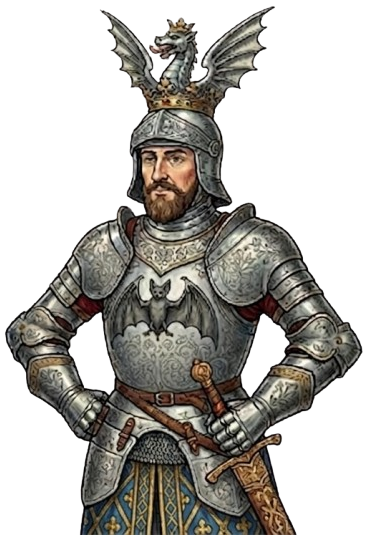
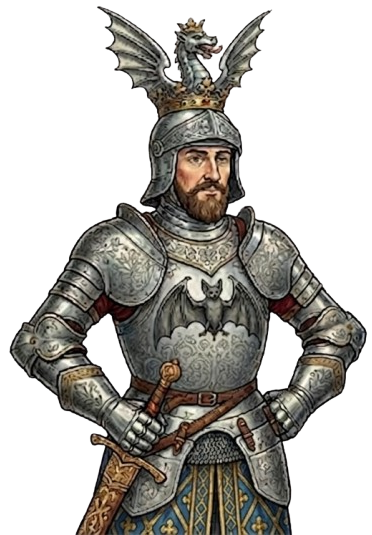
feat(video-intro): rediseño visual P2-P20 + fix video autoplay + caballeros fullbody
- P2: mapaPerdido más alto (min(40vw,25vh)); GPS/internet +20% (min(45.6vw,28.8vh))
- P5: botones +5% (min(67px,15.2vw))
- P6: banda verde doble altura (padding 2.5vw, botón min(14vw,8vh))
- P7: banda verde con botón b2 encima del mapa vintage
- P9/P10: cabecera verde (consistencia); P10 fix autoplay: video.play() explícito
- P10: waitForVideoEnd sin handler error (evita avance automático)
- P11: bottom caballero respeta --band-h (calc(min(92px,25vw) + var(--band-h,0px)))
- P12/P13: banda verde con botón reto; puzzle 30% más grande (min(338px,80.6vw))
- P15: imagen GPS más grande (min(240px,58vw)); overlay +2s (3000→5000ms)
- P16: walk más lento (4000→8000ms); añade showBubble(15) + waitForNextBtn
- P17: GPS overlay +2s; walk más lento (6000→10000ms)
- P19: añade K.cerca (caballero_vista_cerca) a la izquierda
- P20: modal sube (padding-top:15vh)
- caballeros fullbody (jaime_saluda, maria_saluda, pareja_camara): clase
  knight-fullbody (clamp(250px,41vw,400px)) detectada automáticamente en show()
- CACHE_VERSION → v-video-intro-jul09a

diff --git a/video-intro.html b/video-intro.html
@@ -50,6 +50,7 @@ html,body{overflow:hidden;width:100%;height:100%;background:#fff;font-family:-ap
 }
 #knight2.show{transform:translateY(0%)}
 #knight2.bounce{animation:bounceK .45s ease-in-out infinite alternate}
+.knight-fullbody{height:clamp(250px,41vw,400px)!important}
 
 /* ── helper: knight principal a la DERECHA ── */
 .knight-right #knight{left:auto;right:0.8vw;transform:translateY(100%)}
@@ -108,7 +109,7 @@ html,body{overflow:hidden;width:100%;height:100%;background:#fff;font-family:-ap
 .btn-grid{position:absolute;inset:0;display:flex;flex-direction:column;align-items:center;justify-content:center;gap:12px;padding:12px;background:#f8f9fa}
 .btn-group{display:flex;align-items:center;gap:8px;flex-wrap:wrap;justify-content:center}
 .bg-label{font-size:9px;color:#888;text-transform:uppercase;letter-spacing:.5px;width:100%;text-align:center;margin-bottom:2px}
-.btn-main-ico{width:min(64px,14.5vw);height:min(64px,14.5vw);border-radius:50%;background:linear-gradient(180deg,#1e7e34,#0d3a16);overflow:hidden;box-shadow:inset 0 0 10px rgba(255,255,255,.15),0 3px 8px rgba(0,0,0,.3)}
+.btn-main-ico{width:min(67px,15.2vw);height:min(67px,15.2vw);border-radius:50%;background:linear-gradient(180deg,#1e7e34,#0d3a16);overflow:hidden;box-shadow:inset 0 0 10px rgba(255,255,255,.15),0 3px 8px rgba(0,0,0,.3)}
 .btn-main-ico img{width:103%;height:103%;margin:-1.5%;object-fit:cover;border-radius:50%}
 .btn-sub-ico{width:min(48px,10.5vw);height:min(48px,10.5vw);border-radius:50%;background:linear-gradient(180deg,#1e7e34,#0d3a16);overflow:hidden;box-shadow:inset 0 0 6px rgba(255,255,255,.1)}
 .btn-sub-ico img{width:103%;height:103%;margin:-1.5%;object-fit:cover;border-radius:50%}
@@ -262,7 +263,7 @@ html,body{overflow:hidden;width:100%;height:100%;background:#fff;font-family:-ap
 /* PUZZLE BOARD */
 .puzzle-board{
   display:grid;grid-template-columns:1fr 1fr;grid-template-rows:1fr 1fr;
-  gap:4px;width:min(260px,62vw);height:min(196px,46.5vw);
+  gap:4px;width:min(338px,80.6vw);height:min(255px,60.5vw);
   align-self:center;border:2px solid #8b5e1a;border-radius:6px;overflow:hidden;
   flex-shrink:0;
 }
@@ -333,7 +334,7 @@ html,body{overflow:hidden;width:100%;height:100%;background:#fff;font-family:-ap
 
 /* GPS / error overlays */
 .gps-ov{position:absolute;inset:0;background:rgba(0,0,0,.78);display:flex;flex-direction:column;align-items:center;justify-content:center}
-.gps-img{width:min(170px,41vw);object-fit:contain}
+.gps-img{width:min(240px,58vw);object-fit:contain}
 .gps-cd{position:absolute;bottom:28%;left:8%;right:8%;height:54px;background:#dc3545;display:flex;align-items:center;justify-content:center;border:0.2rem solid #c00;border-radius:.6rem;box-shadow:0 4px 16px rgba(220,53,69,.5)}
 .gps-digits{color:#fff;font-size:clamp(24px,6.5vw,34px);font-family:monospace;font-weight:bold;letter-spacing:4px;text-shadow:0 2px 8px rgba(0,0,0,.35)}
 .net-ov{position:absolute;inset:0;background:rgba(0,0,0,.78);display:flex;flex-direction:column;align-items:center;justify-content:center;gap:12px}
@@ -604,6 +605,7 @@ const M = {
   up:     VI+'maria_thumbsup.png',
   pareja: VI+'pareja_camara.png',
 };
+const FULLBODY_SRCS = new Set([K.saluda, K.completo, M.saluda, M.pareja]);
 const G = {
   L: VI+'guantelete_mira_izquierda.png',
   R: VI+'guantelete_mira_derecha.png',
@@ -722,6 +724,7 @@ const Knight = {
     const k=$('knight');
     k.src=src; k.classList.remove('walk');
     k.style.cssText='';
+    FULLBODY_SRCS.has(src) ? k.classList.add('knight-fullbody') : k.classList.remove('knight-fullbody');
     requestAnimationFrame(()=>{
       k.classList.add('show');
       bounce ? k.classList.add('bounce') : k.classList.remove('bounce');
@@ -753,6 +756,7 @@ const Knight2 = {
   show(src){
     const k=$('knight2');
     k.src=src; k.style.cssText='';
+    FULLBODY_SRCS.has(src) ? k.classList.add('knight-fullbody') : k.classList.remove('knight-fullbody');
     requestAnimationFrame(()=>k.classList.add('show'));
   },
   hide(){ const k=$('knight2'); k.classList.remove('show') }
@@ -1157,13 +1161,13 @@ async function scene2(){
   setScene(`<div class="sc" style="background:#f9f9f9;padding:0">
     <div style="position:absolute;inset:0;display:flex;align-items:flex-end;justify-content:space-between;overflow:hidden">
       <img src="${K.mapaPerdido}" alt=""
-           style="height:min(32vw,20vh);width:auto;flex-shrink:0;
+           style="height:min(40vw,25vh);width:auto;flex-shrink:0;
                   filter:drop-shadow(2px 4px 12px rgba(0,0,0,.5))">
       <div style="display:flex;flex-direction:column;align-items:flex-end;gap:2vw;padding:0 2vw 3vh 0;flex-shrink:0">
         <img src="${AI}imagen-no-gps.png" alt=""
-             style="width:min(38vw,24vh);height:auto;object-fit:contain">
+             style="width:min(45.6vw,28.8vh);height:auto;object-fit:contain">
         <img src="${AI}imagen-no-internet.png" alt=""
-             style="width:min(38vw,24vh);height:auto;object-fit:contain">
+             style="width:min(45.6vw,28.8vh);height:auto;object-fit:contain">
       </div>
     </div>
   </div>`);
@@ -1188,8 +1192,8 @@ async function scene8(){
     setOv(`<div style="position:absolute;inset:0;pointer-events:none">
       <div class="ov-close" id="oc8" style="pointer-events:auto">✕</div>
       <div class="or-panel">
-        <div class="or-panel-header" style="display:flex;align-items:center;justify-content:center;padding:1.2vw;gap:1.5vw">
-          <img src="${B.b1}" alt="" style="width:min(7vw,4vh);height:auto;border-radius:1vw">
+        <div class="or-panel-header" style="display:flex;align-items:center;justify-content:center;padding:2.5vw;gap:1.5vw">
+          <img src="${B.b1}" alt="" style="width:min(14vw,8vh);height:auto;border-radius:1vw">
         </div>
         <svg class="or-svg" viewBox="0 0 220 170" xmlns="http://www.w3.org/2000/svg">
           <!-- Fondo tipo mapa claro -->
@@ -1254,7 +1258,13 @@ async function scene9(){
   await zoomBtn(b2, B.b2);
   await Gauntlet.hover(b2,'R',350);
   await Gauntlet.tapEl(b2,'R',()=>{ spin(b2);
-    setOv(`<div class="ov-dark"><div class="ov-close" id="oc9">✕</div><img class="ov-img" src="${MV}Av1_mapa.jpg" alt=""></div>`);
+    setOv(`<div class="ov-dark" style="justify-content:flex-start">
+      <div style="width:100%;background:#28a745;display:flex;align-items:center;justify-content:center;padding:2vw;flex-shrink:0">
+        <img src="${B.b2}" alt="" style="width:min(14vw,8vh);height:auto;border-radius:1vw">
+      </div>
+      <div class="ov-close" id="oc9">✕</div>
+      <img class="ov-img" src="${MV}Av1_mapa.jpg" alt="" style="margin-top:10px">
+    </div>`);
   });
   await waitForNextBtn();
   await Gauntlet.tapEl($('oc9'),'UR',()=>clearOv());
@@ -1276,8 +1286,8 @@ async function sceneImg(){
   await Gauntlet.tapEl(b4,'R',()=>{
     setOv(`<div class="float-win">
       <div class="float-card">
-        <div style="display:flex;align-items:center;justify-content:center;padding:1.5vw;background:#f8f9fa;border-bottom:1px solid #eee">
-          <img src="${B.b4}" alt="" style="width:min(7vw,4vh);height:auto;border-radius:1vw">
+        <div style="display:flex;align-items:center;justify-content:center;padding:2.5vw;background:#28a745">
+          <img src="${B.b4}" alt="" style="width:min(14vw,8vh);height:auto;border-radius:1vw">
         </div>
         <div class="ov-close" id="ocimg" style="pointer-events:auto">✕</div>
         <img class="float-img" src="${IM}00_ torres_de serranos_back.jpg" alt="">
@@ -1297,7 +1307,6 @@ function waitForVideoEnd(videoEl) {
     if (!videoEl || videoEl.ended) { resolve(); return; }
     const done = () => { clearInterval(checker); resolve(); };
     videoEl.addEventListener('ended', done, {once:true});
-    videoEl.addEventListener('error', done, {once:true});
     const checker = setInterval(()=>{ if (_skipRequested) done(); }, 300);
   });
 }
@@ -1318,15 +1327,17 @@ async function sceneVid(){
     Knight.hide();
     setOv(`<div class="float-win">
       <div class="float-card" style="width:min(420px,96vw)">
-        <div style="display:flex;align-items:center;justify-content:center;padding:1.5vw;background:#f8f9fa;border-bottom:1px solid #eee">
-          <img src="${B.b3}" alt="" style="width:min(7vw,4vh);height:auto;border-radius:1vw">
+        <div style="display:flex;align-items:center;justify-content:center;padding:2.5vw;background:#28a745">
+          <img src="${B.b3}" alt="" style="width:min(14vw,8vh);height:auto;border-radius:1vw">
         </div>
         <div class="ov-close" id="ocvid" style="pointer-events:auto">✕</div>
         <video class="float-video" style="max-height:60vh" src="videos-aventuras/video_intro_ejemplo.mp4" autoplay muted playsinline controls></video>
       </div>
     </div>`);
   });
-  await Promise.race([waitForVideoEnd(document.querySelector('.float-video')), waitForNextBtn()]);
+  const _vid = document.querySelector('.float-video');
+  if (_vid) _vid.play().catch(()=>{});
+  await Promise.race([waitForVideoEnd(_vid), waitForNextBtn()]);
   if (!_skipRequested) {
     await Gauntlet.tapEl($('ocvid'),'UR',()=>clearOv());
   } else {
@@ -1366,8 +1377,8 @@ async function scene11(){
   await zoomBtn(amain, B.aMain);
   Knight.show(K.completo);
   const hideBubble = showBubble(10);
-  // Subir caballero por encima de la barra de audio (78px)
-  const kn=$('knight'); if(kn) kn.style.bottom='min(92px,25vw)';
+  // Subir caballero por encima de la barra de audio (78px) respetando --band-h
+  const kn=$('knight'); if(kn) kn.style.bottom='calc(min(92px,25vw) + var(--band-h,0px))';
   await wait(300);
   await Gauntlet.hover(amain,'R',350);
   await Gauntlet.tapEl(amain,'R',()=>{ spin(amain); $('astrip').classList.add('open') });
@@ -1391,8 +1402,8 @@ async function scene12(){
   await wait(400);
   // Tap reto button → challenge panel con puzzle
   await Gauntlet.tapEl($('ar'),'UR',()=>{
-    setOv(`<div class="ch-panel" id="ch" style="align-items:flex-end">
-      <div class="ch-icon-row"><img class="ch-reto-icon" src="${B.reto}" alt="" style="width:min(64px,15vw);filter:drop-shadow(0 4px 10px rgba(0,0,0,.35))"></div>
+    setOv(`<div class="ch-panel" id="ch" style="align-items:flex-end;padding-top:0">
+      <div style="background:#28a745;width:calc(100% + 24px);margin:0 -12px 8px;padding:10px 12px;display:flex;align-items:center;justify-content:center;flex-shrink:0"><img class="ch-reto-icon" src="${B.reto}" alt="" style="filter:drop-shadow(0 4px 10px rgba(0,0,0,.35))"></div>
       <!-- Puzzle board: 2x2, cells 0(filled) 1(empty) 2(empty) 3(filled) -->
       <div class="puzzle-board" id="pboard" style="align-self:flex-end">
         <div class="pz-cell filled" id="pc0"><img src="${AI}H2-fotoproximo-monumento.png" style="object-position:0% 0%"></div>
@@ -1474,8 +1485,8 @@ async function sceneRetoMCQ(){
   await wait(200);
 
   Knight2.show(M.posa);
-  setOv(`<div class="ch-mcq" style="align-items:flex-end">
-    <div class="ch-icon-row"><img class="ch-reto-icon" src="${B.reto}" alt=""></div>
+  setOv(`<div class="ch-mcq" style="align-items:flex-end;padding-top:0">
+    <div style="background:#28a745;width:calc(100% + 28px);margin:0 -14px 8px;padding:12px 14px;display:flex;align-items:center;justify-content:center;flex-shrink:0"><img class="ch-reto-icon" src="${B.reto}" alt=""></div>
     <div class="ch-q" style="width:40%"></div>
     <div class="ch-opts-bot" id="mopts" style="left:auto;right:14px;transform:none;width:min(240px,60vw)">
       <div class="ch-opt"><div class="ch-radio" id="mr0"></div><div class="ch-text" style="width:60%"></div></div>
@@ -1518,6 +1529,7 @@ async function scene18(){
   setCounter(19);
   setScene(mainHTML('disabled'));
   MC.showInset(RA); MC.showFull(RA);
+  Knight.show(K.cerca);
   const hideBubble = showBubble(18);
   await wait(700);
   await Gauntlet.tapEl($('chat-btn'),'DL',()=>{
@@ -1544,6 +1556,7 @@ async function scene18(){
   await Gauntlet.tapEl(cx,'DL',()=>{ $('cpanel').classList.remove('open'); setTimeout(()=>clearOv(),440) });
   await waitForNextBtn();
   hideBubble();
+  Knight.hide();
 }
 
 /* ── P16: Mapa + caballero_camara + cuenta atrás 5 min ── */
@@ -1581,7 +1594,7 @@ async function scene14(){
   setOv(`<div class="gps-ov">
     <img class="gps-img" src="${AI}foto-fuera-rango.png" alt="">
   </div>`);
-  await wait(3000);
+  await wait(5000);
   clearOv(); await wait(400);
   const b6=$('b6');
   b6.classList.remove('disabled'); b6.classList.add('activo'); spin(b6);
@@ -1609,10 +1622,12 @@ async function scene15(){
   setScene(mainHTML('disabled'));
   const offPt=[39.4748,-0.3815];
   const retPath={path:[offPt,[39.4762,-0.3800],[39.4780,-0.3792],[39.4796,-0.3785],RA.path[0]]};
-  await Knight.walk(retPath, 4000);
+  await Knight.walk(retPath, 8000);
   Knight.hide(); await wait(200);
   Knight.show(K.up, true);
-  await wait(2500);
+  const hideBubble = showBubble(15);
+  await waitForNextBtn();
+  hideBubble();
   Knight.hide();
 }
 
@@ -1636,7 +1651,7 @@ async function scene16(){
   setOv(`<div class="gps-ov">
     <img class="gps-img" src="${AI}fotogpserror.png" alt="">
   </div>`);
-  await wait(3000);
+  await wait(5000);
   clearOv(); await wait(400);
   const b6p16=$('b6');
   b6p16.classList.remove('disabled'); b6p16.classList.add('activo'); spin(b6p16);
@@ -1650,7 +1665,7 @@ async function scene16(){
     [39.4700,-0.3840],[39.4718,-0.3822],
     [39.4736,-0.3810],[39.4758,-0.3798],
     [39.4775,-0.3792],RA.path[0]]};
-  await Knight.walk(retPath2, 6000);
+  await Knight.walk(retPath2, 10000);
   Knight.hide(); await wait(200);
   Knight.show(K.up, true);
   await waitForNextBtn();
@@ -1752,7 +1767,7 @@ async function scene19(){
     }
     requestAnimationFrame(loop);
   })();
-  setOv(`<div class="modal-bg">
+  setOv(`<div class="modal-bg" style="align-items:flex-start;padding-top:15vh">
     <div class="modal">
       <div style="height:8px;background:#555;border-radius:3px;width:80%;margin:0 auto 8px"></div>
       <div style="height:7px;background:#aaa;border-radius:3px;width:60%;margin:0 auto 12px"></div>

diff --git a/sw.js b/sw.js
@@ -86,7 +86,7 @@ const APP_SHELL = [
 // Así, cualquier cambio real de shell (HTML/JS/CSS/manifest/íconos) actualiza
 // la versión de caché automáticamente en pre-commit y en dev:watch.
 // El navegador detecta el cambio byte-a-byte y re-registra el SW automáticamente.
-const CACHE_VERSION = 'v-av34km-paradas-jul09';
+const CACHE_VERSION = 'v-video-intro-jul09a';
 const IS_DEV = self.location.hostname === 'localhost' || self.location.hostname === '127.0.0.1';
 const CACHE_NAME = `vvguides-shell-${CACHE_VERSION}`;
 const MEDIA_CACHE_NAME = 'vvguides-media-v1';

diff --git a/docs/GUIA-COMPLETA.md b/docs/GUIA-COMPLETA.md
@@ -4343,7 +4343,7 @@ El SW no interviene en la comunicación postMessage entre componentes. Gestiona:
 
 - Caché Network-First del App Shell (HTML/JS/CSS/manifest)
 - Media (audios, vídeos, imágenes de aventuras) **nunca cacheado** — siempre desde red
-- `CACHE_VERSION` se actualiza en cada commit (valor actual: `'v-av34km-paradas-jul09'`). El sistema de auto-generación por SHA-256 vía `tools/build-sw.js` está descrito en los comentarios del SW pero el archivo no existe todavía.
+- `CACHE_VERSION` se actualiza en cada commit (valor actual: `'v-video-intro-jul09a'`). El sistema de auto-generación por SHA-256 vía `tools/build-sw.js` está descrito en los comentarios del SW pero el archivo no existe todavía.
 
 No emite ni recibe mensajes postMessage. No tiene handlers de mensajería del bus.
 
@@ -6870,7 +6870,7 @@ navigator.serviceWorker.addEventListener('message', event => {
 
 #### CACHE_VERSION y actualización automática
 
-`CACHE_VERSION` (actualmente `'v-av34km-paradas-jul09'`, línea 89 de `sw.js`) debe cambiarse en cada deploy para forzar que el navegador descarte la caché antigua. El encabezado de `sw.js` describe un sistema automático basado en SHA-256 (`tools/build-sw.js`) que calcularía la versión a partir del contenido de los ficheros de APP_SHELL, pero ese script no está implementado — el directorio `tools/` contiene scripts de traducción e inventario, pero no `build-sw.js`.
+`CACHE_VERSION` (actualmente `'v-video-intro-jul09a'`, línea 89 de `sw.js`) debe cambiarse en cada deploy para forzar que el navegador descarte la caché antigua. El encabezado de `sw.js` describe un sistema automático basado en SHA-256 (`tools/build-sw.js`) que calcularía la versión a partir del contenido de los ficheros de APP_SHELL, pero ese script no está implementado — el directorio `tools/` contiene scripts de traducción e inventario, pero no `build-sw.js`.
 
 **Detección de actualizaciones:** `registration.update()` se llama en `visibilitychange → hidden`. Esto asegura que el browser comprueba actualizaciones del SW cada vez que el usuario cambia de app. En dev (`IS_DEV = true`, hostname `localhost`/`127.0.0.1`), todos los fetches del SW van directamente a red sin caché, garantizando que el desarrollador siempre ve la versión más reciente.
 
@@ -7432,7 +7432,7 @@ Cada vez que se despliega una nueva versión, actualizar `CACHE_VERSION` en `sw.
 
 ```javascript
 // sw.js línea 89 — actualizar en cada despliegue
-const CACHE_VERSION = 'v-av34km-paradas-jul09'; // ← cambiar a un identificador de la versión (p.ej. 'v-1.0.0')
+const CACHE_VERSION = 'v-video-intro-jul09a'; // ← cambiar a un identificador de la versión (p.ej. 'v-1.0.0')
 const CACHE_NAME = `vvguides-shell-${CACHE_VERSION}`;
 ```
 
@@ -10904,7 +10904,7 @@ Timeout configurado en **30 000 ms** (30 s) para `crearPromiseHijoListo`. Los di
 **Archivo:** `sw.js` línea 89
 
 ```js
-const CACHE_VERSION = 'v-av34km-paradas-jul09';
+const CACHE_VERSION = 'v-video-intro-jul09a';
 ```
 
 El valor se actualiza manualmente en cada commit que requiere invalidar la caché del shell. El directorio `tools/` existe pero `tools/build-sw.js` (auto-generación por SHA-256 mencionada en el comentario de `sw.js`) **no está implementado** — es aspiracional.
